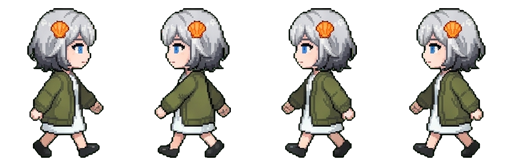
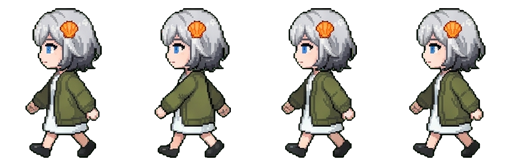
옆으로 걸을 때 얼굴 방향이 바뀌는 문제 수정
옆모습 걷기 첫 프레임만 반대 방향을 보고 있어서 좌우 반전.
clean_chroma.py에 얼굴 방향 검사(face 옵션)를 추가해 옆모습 동작은 자동으로 맞춤.

Claude-Session: https://claude.ai/code/session_01MBgVgKbFxkEXND4zuEcjdV

Changed region(s): [[0.0312, 0.0625, 0.2188, 1.0]]

diff --git a/tools/sprite_cleanup/clean_chroma.py b/tools/sprite_cleanup/clean_chroma.py
@@ -3,7 +3,7 @@
 1) 초록 배경 제거 (가장자리 반투명 처리 + 초록 번짐 제거)
 2) 격자 순서대로 프레임 자동 인식 (줄 → 칸)
 3) 서 있는 동작은 '머리 꼭대기~발바닥' 높이로 캐릭터 크기 통일 (앉은 동작은 normalize: false)
-4) 조개 핀이 반대쪽에 그려진 프레임 좌우 반전
+4) 조개 핀이 반대쪽에 그려진 프레임, 옆모습에서 반대 방향을 보는 프레임 좌우 반전
 5) 같은 크기 칸, 발바닥 기준 정렬 → 동작별 PNG + frames.json
 
 사용: python3 clean_chroma.py 설정.json 출력폴더
@@ -103,6 +103,23 @@ def stature(img):
     return solid[-1] - rows[0]
 
 
+def face_side(img):
+    """얼굴(피부색)이 머리 가운데보다 어느 쪽에 있는지. +면 오른쪽을 봄."""
+    a = np.array(img).astype(int)
+    al = a[..., 3] > 128
+    ys = np.nonzero(al.any(1))[0]
+    top, h = ys[0], ys[-1] - ys[0]
+    head = a[top: top + int(h * 0.42)]
+    hal = al[top: top + int(h * 0.42)]
+    r, g, b = head[..., 0], head[..., 1], head[..., 2]
+    skin = hal & (r > 200) & (g > 150) & (b > 130) & (r - b > 25)
+    xs = np.nonzero(hal.any(0))[0]
+    sx = np.nonzero(skin)[1]
+    if xs.size == 0 or sx.size < 20:
+        return 0
+    return sx.mean() - (xs[0] + xs[-1]) / 2
+
+
 def pin_offset(img):
     a = np.array(img).astype(int)
     alpha = a[..., 3] > 128
@@ -135,6 +152,11 @@ def main(cfg_path, out_dir):
         for sheet, row, col in anim["frames"]:
             rgba, rows = sheets[sheet]
             img = cut(rgba, rows[row][col])
+            face = anim.get("face")         # 옆모습: +1 오른쪽을 봄, -1 왼쪽을 봄
+            if face:
+                f = face_side(img)
+                if f and np.sign(f) != face:
+                    img = img.transpose(Image.FLIP_LEFT_RIGHT)
             side = anim.get("pin")          # +1 화면 오른쪽, -1 화면 왼쪽
             if side:
                 off = pin_offset(img)
